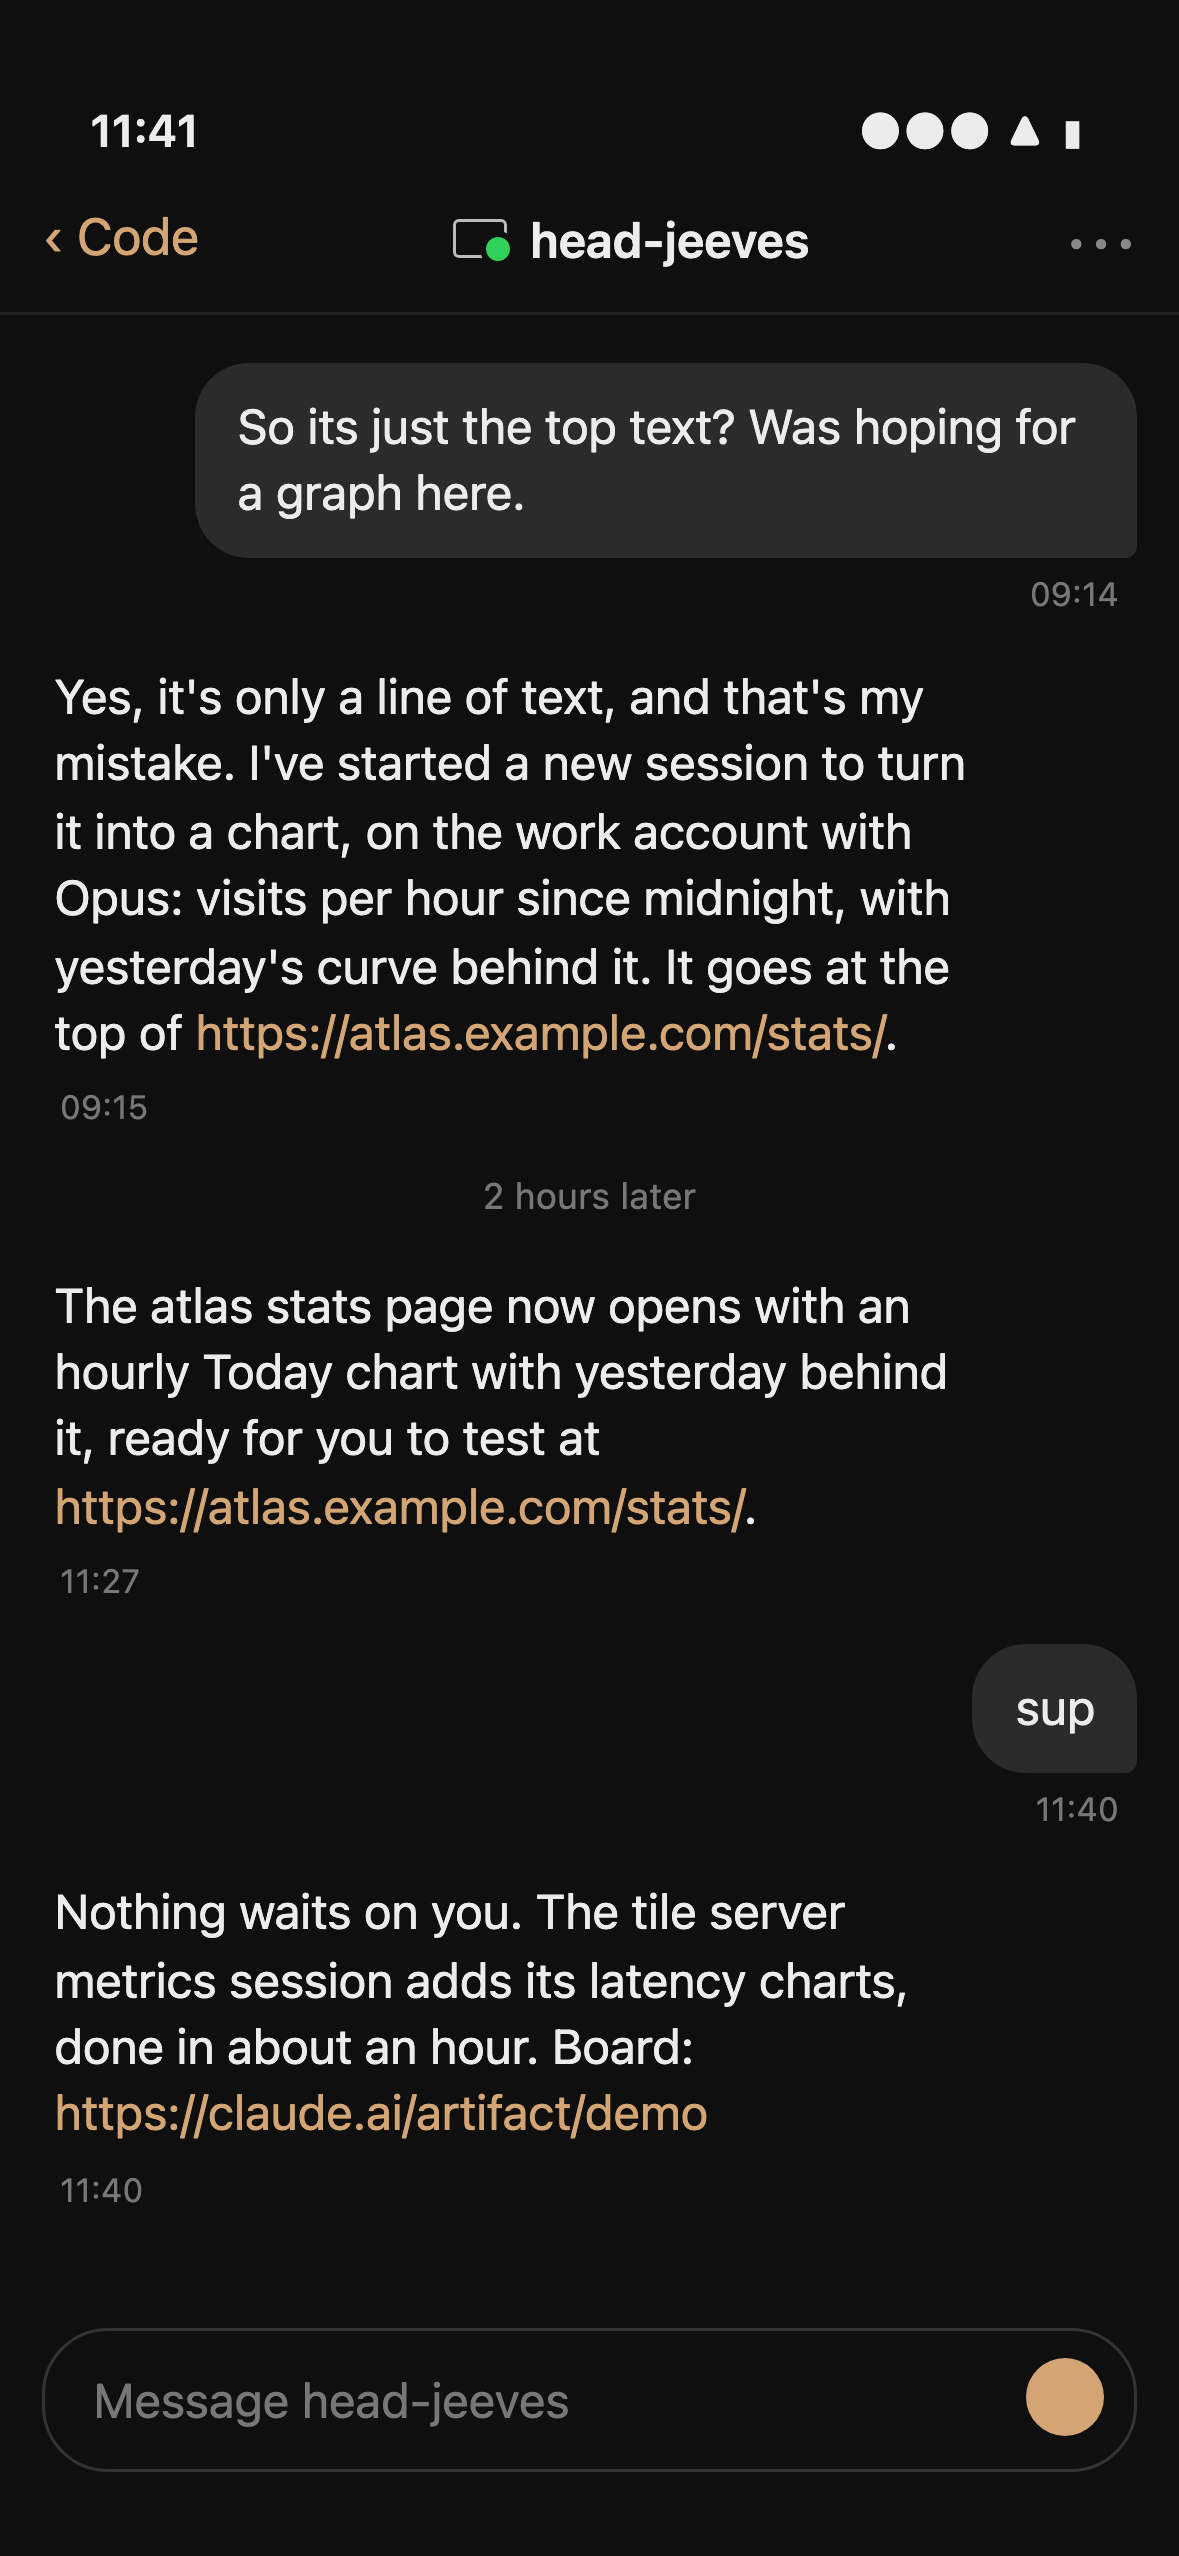
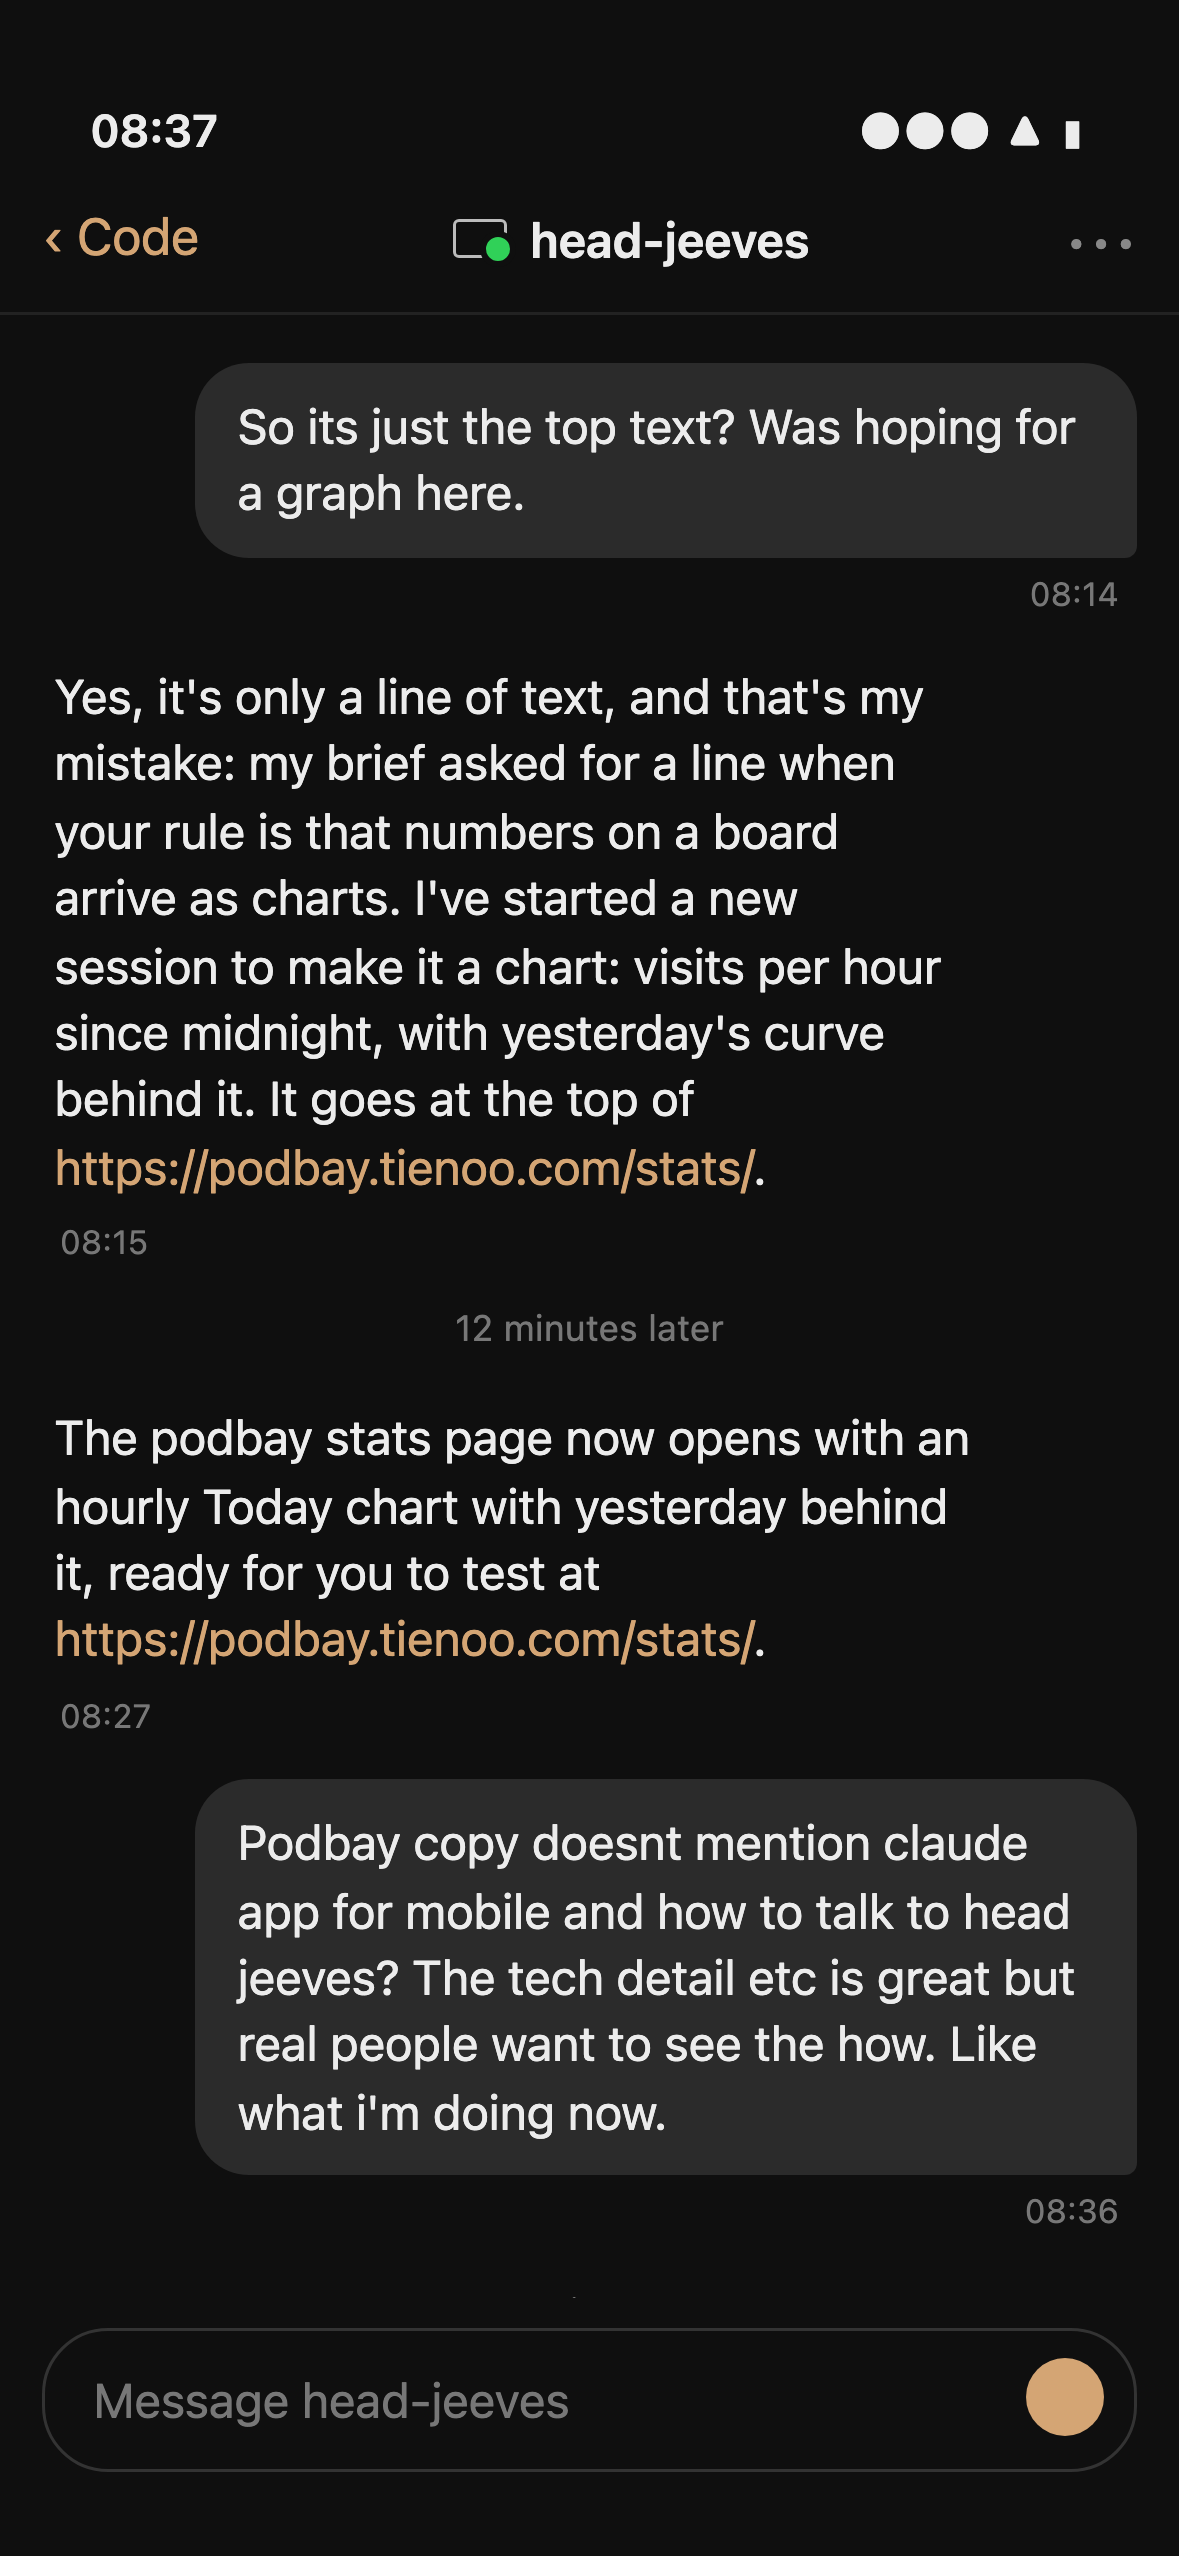
Site: the chat and push mockups quote the real morning
The hero chat and the lock-screen push now show the 19 October exchange
that the morning section quotes, with the real page, times and sender,
instead of the made-up atlas project. The push mockup gets a viewport
meta, so the notification fills the phone's width instead of a 980 px
layout scaled down, and is tall enough for the whole line. CLAUDE.md
records the call: the site names the author's real projects and quotes
real exchanges, the console and board stay a demo, the check against the
author's name stays.

Claude-Session: https://claude.ai/code/session_017FUyd4AgvGgCYeXn393doH

Changed region(s): [[0.0305, 0.2782, 0.8244, 0.68], [0.0305, 0.6182, 0.9771, 0.8654], [0.0611, 0.0309, 0.1832, 0.0618]]

diff --git a/scripts/shots.py b/scripts/shots.py
@@ -1,6 +1,7 @@
-"""The site's screenshots: the podbay console, the phone board, the Head
-Jeeves chat as the phone shows it and one push notification, from made-up
-sessions, never this machine's.
+"""The site's screenshots: the podbay console and the phone board over
+made-up sessions, and the Head Jeeves chat and one push notification as the
+phone shows them, quoting a real exchange (the author okayed naming the
+real projects on the site; the console and board stay a demo).
 
 The console is the real TUI mounted headless with every source of live data
 replaced by the demo below; Textual exports the screen as SVG. The board is
@@ -200,25 +201,28 @@ async def open_svg(tmp: Path) -> str:
         return app.export_screenshot(title="podbay")
 
 
-# What the Claude app shows while talking to Head Jeeves: one exchange,
-# the order on the phone, the reply, and the line that came back when the
-# work was ready. The lines are the shape of real ones, with the project
-# names of the demo sessions above.
+# What the Claude app shows while talking to Head Jeeves: one morning's
+# real exchange, condensed. The order on the phone, the reply, the line
+# that came back twelve minutes later when the work was ready, and the
+# message that asked for this landing page. The times are Helsinki time.
 CHAT = [
-    ("you", "So its just the top text? Was hoping for a graph here.", "09:14"),
-    ("hj", "Yes, it's only a line of text, and that's my mistake. I've started a new session to turn it into a chart, "
-           "on the work account with Opus: visits per hour since midnight, with yesterday's curve behind it. "
-           "It goes at the top of https://atlas.example.com/stats/.", "09:15"),
-    ("gap", "2 hours later", ""),
-    ("hj", "The atlas stats page now opens with an hourly Today chart with yesterday behind it, "
-           "ready for you to test at https://atlas.example.com/stats/.", "11:27"),
-    ("you", "sup", "11:40"),
-    ("hj", "Nothing waits on you. The tile server metrics session adds its latency charts, done in about an hour. "
-           "Board: https://claude.ai/artifact/demo", "11:40"),
+    ("you", "So its just the top text? Was hoping for a graph here.", "08:14"),
+    ("hj", "Yes, it's only a line of text, and that's my mistake: my brief asked for a line when your rule is that "
+           "numbers on a board arrive as charts. I've started a new session to make it a chart: visits per hour "
+           "since midnight, with yesterday's curve behind it. It goes at the top of https://podbay.tienoo.com/stats/.", "08:15"),
+    ("gap", "12 minutes later", ""),
+    ("hj", "The podbay stats page now opens with an hourly Today chart with yesterday behind it, "
+           "ready for you to test at https://podbay.tienoo.com/stats/.", "08:27"),
+    ("you", "Podbay copy doesnt mention claude app for mobile and how to talk to head jeeves? "
+            "The tech detail etc is great but real people want to see the how. Like what i'm doing now.", "08:36"),
+    ("hj", "Agreed. The page explains how podbay works but never shows using it. The thing that sells it is you on "
+           "the phone, sending one line and having work happen on the Mac. Here are ideas to change that.", "08:36"),
 ]
 
-PUSH = ("Head Jeeves", "The atlas stats page now opens with an hourly Today chart with yesterday behind it, "
-                       "ready for you to test at https://atlas.example.com/stats/.")
+# The push that came at 08:26: the title is the fixed argument of the
+# notify command, the sender the site that registered the phone.
+PUSH = ("Head Jeeves", "The podbay stats page now opens with an hourly Today chart with yesterday behind it, "
+                       "ready for you to test at https://podbay.tienoo.com/stats/.")
 
 
 def chat_html() -> str:
@@ -255,7 +259,7 @@ def chat_html() -> str:
   .input b {{ width: 26px; height: 26px; border-radius: 50%; background: #d4a574; display: inline-block; margin: -3px -6px -3px 0; }}
 </style>
 <div class="screen">
-  <div class="status"><span>11:41</span><span>●●● ▲ ▮</span></div>
+  <div class="status"><span>08:37</span><span>●●● ▲ ▮</span></div>
   <div class="bar"><span class="back">‹ Code</span><span class="name"><i></i>head-jeeves</span><span class="dots">•••</span></div>
   <div class="list">{"".join(rows)}</div>
   <div class="input"><span>Message head-jeeves</span><b></b></div>
@@ -267,13 +271,13 @@ def push_html() -> str:
     fixed argument of the notify command, the body the line Head Jeeves
     sent, and tapping it opens the board."""
     title, body = PUSH
-    return f"""<!doctype html><meta charset="utf-8">
+    return f"""<!doctype html><meta charset="utf-8"><meta name="viewport" content="width=device-width,initial-scale=1">
 <style>
   html, body {{ margin: 0; background: #0c0f18; font: 15px/1.35 -apple-system, "SF Pro Text", system-ui, sans-serif; color: #fff; }}
-  .screen {{ width: 393px; height: 300px; background: linear-gradient(160deg, #1c2233 0%, #0c0f18 60%, #1a0f10 100%); }}
-  .time {{ text-align: center; padding-top: 34px; font-size: 20px; font-weight: 500; opacity: .9; }}
-  .time b {{ display: block; font-size: 64px; font-weight: 300; line-height: 1.05; }}
-  .n {{ margin: 22px 10px 0; background: rgba(255,255,255,.14); backdrop-filter: blur(20px); border-radius: 22px; padding: 12px 14px 12px 12px; display: flex; gap: 12px; align-items: flex-start; }}
+  .screen {{ width: 393px; height: 236px; background: linear-gradient(160deg, #1c2233 0%, #0c0f18 60%, #1a0f10 100%); }}
+  .time {{ text-align: center; padding-top: 12px; font-size: 15px; font-weight: 500; opacity: .9; }}
+  .time b {{ display: block; font-size: 40px; font-weight: 300; line-height: 1.1; }}
+  .n {{ margin: 10px 10px 0; background: rgba(255,255,255,.14); backdrop-filter: blur(20px); border-radius: 22px; padding: 12px 14px 12px 12px; display: flex; gap: 12px; align-items: flex-start; }}
   .n .ic {{ flex: none; width: 38px; height: 38px; border-radius: 9px; background: radial-gradient(circle, #fff3c4 0 3%, #ffb000 9%, #e0201f 28%, #6a0606 58%, #1a0000 76%); box-shadow: inset 0 0 0 1px rgba(255,255,255,.15); }}
   .n .x {{ flex: 1; min-width: 0; }}
   .n .h {{ display: flex; justify-content: space-between; font-weight: 600; }}
@@ -282,8 +286,8 @@ def push_html() -> str:
   .n .b {{ font-size: 14px; }}
 </style>
 <div class="screen">
-<div class="time">Tuesday 20 October<b>11:27</b></div>
-<div class="n"><div class="ic"></div><div class="x"><div class="s">jeeves.example.com</div><div class="h"><span>{title}</span><span>now</span></div><div class="b">{body}</div></div></div>
+<div class="time">Monday 19 October<b>08:26</b></div>
+<div class="n"><div class="ic"></div><div class="x"><div class="s">jeeves.tienoo.com</div><div class="h"><span>{title}</span><span>now</span></div><div class="b">{body}</div></div></div>
 </div>"""
 
 
@@ -329,7 +333,7 @@ async def main() -> None:
             await phone.goto((tmp / "chat.html").as_uri())
             await phone.screenshot(path=str(OUT / "chat.png"))
             await phone.goto((tmp / "push.html").as_uri())
-            await phone.screenshot(path=str(OUT / "push.png"), clip={"x": 0, "y": 0, "width": 393, "height": 130})
+            await phone.screenshot(path=str(OUT / "push.png"), clip={"x": 0, "y": 0, "width": 393, "height": 236})
             await browser.close()
     for f in sorted(OUT.glob("*.png")):
         print(f.relative_to(REPO))

diff --git a/CLAUDE.md b/CLAUDE.md
@@ -97,8 +97,12 @@ podbay.tienoo.com is one static page, no build step. `make deploy` syncs
 `site/` with `--delete` but excludes `data/`, which the analytics pipeline
 owns, and uploads `t.gif` as `no-store`. Commit before you deploy.
 
-- The screenshots show made-up sessions only. Change the demo in
-  `scripts/shots.py`, run `make shots`, commit the PNGs.
+- The console and board screenshots show made-up sessions. The chat and
+  push mockups quote a real exchange with Head Jeeves, and the morning
+  section on the page quotes real ones with the real project names: the
+  author okayed it, nothing in them is confidential. Change the demo or
+  the quoted lines in `scripts/shots.py`, run `make shots`, commit the
+  PNGs.
 - The tienoo.com zone is read as a data source, never declared here.
 - The Terraform state bucket is not in the repo: `make plan` passes it as
   `TFSTATE_BUCKET`, by default `<login>-backup-<account id>`.
@@ -148,9 +152,11 @@ show the figures and a chart from `machine.jsonl`, one sample a minute.
   CLI. Add a hands-on key only when the user asks for it.
 - `Enter` is the only action that switches to iTerm2.
 - Every user-facing string lives in `voice.py`.
-- Nothing personal in the repo: no login names, no home paths, no repo
-  names from one machine. Tests build paths from `Path.home()` and set
-  the home base in `conftest.py`.
+- Nothing personal in the code, the tests or the docs: no login names,
+  no home paths, no repo names from one machine. Tests build paths from
+  `Path.home()` and set the home base in `conftest.py`. The one exception
+  is the site: its quoted exchanges name the author's real projects (see
+  The site above), and `make check` still fails on the author's name.
 - Commit messages in English.
 - The `podbay` on the PATH and the status line run from `.release/`, never
   from your working tree. To test a change, use `make run` or
